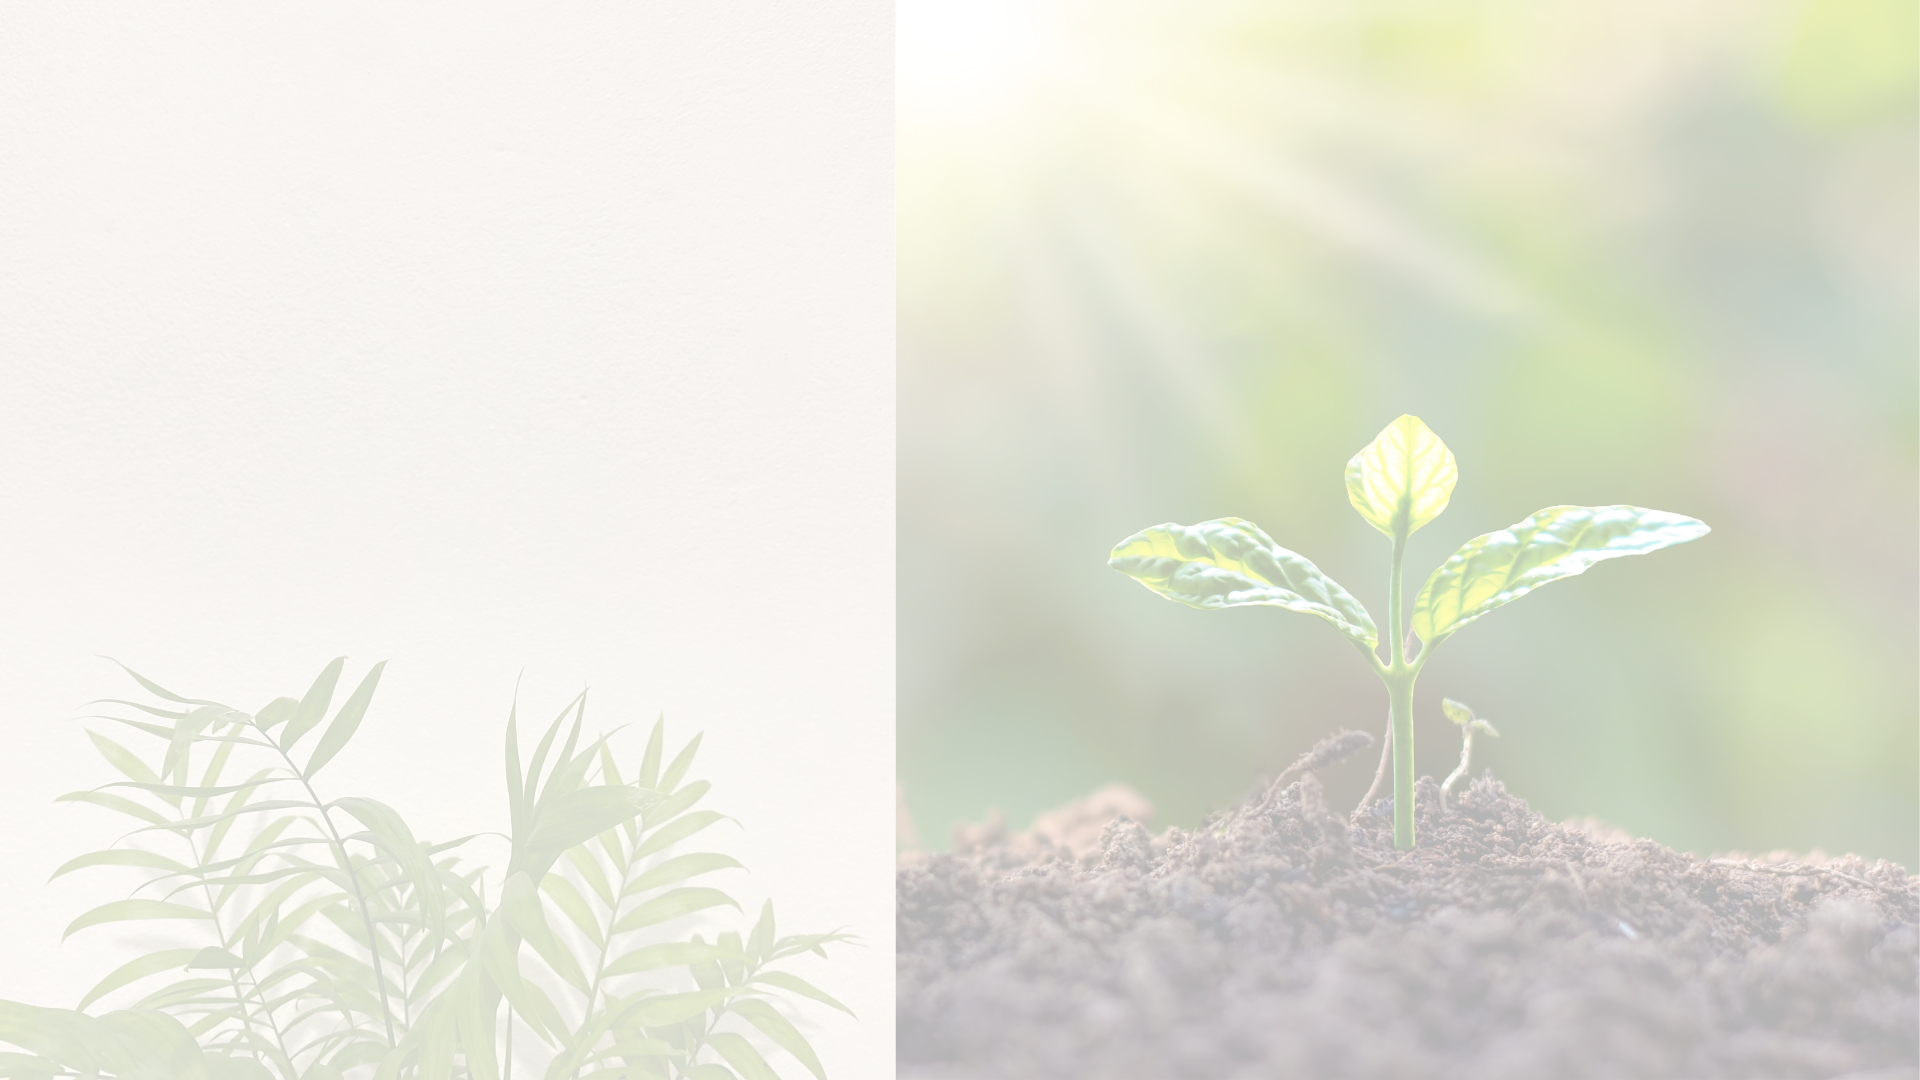
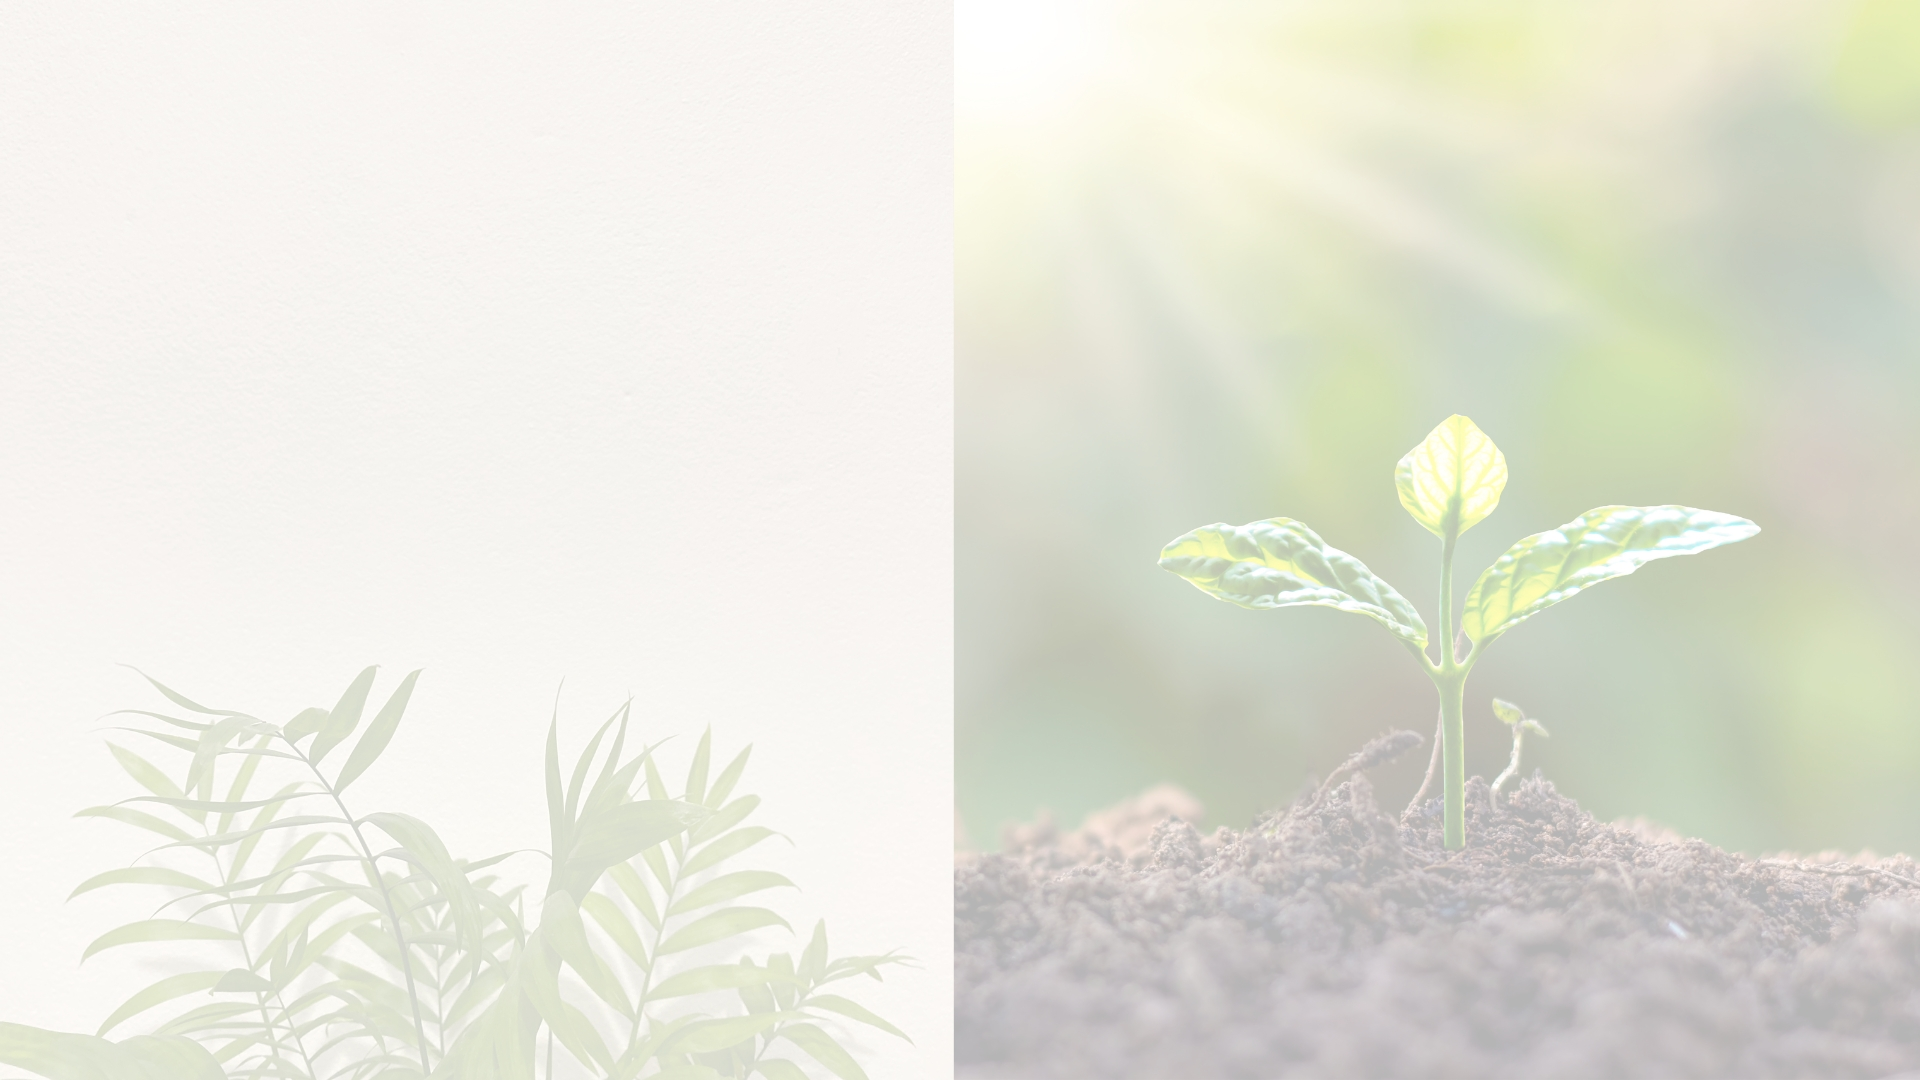
UI modifications

Changed region(s): [[0.0, 0.2444, 1.0, 1.0], [0.8438, 0.8556, 0.875, 0.8861], [0.75, 0.825, 0.7812, 0.8556]]

diff --git a/frontend/src/login.css b/frontend/src/login.css
@@ -40,8 +40,7 @@ body {
   border-radius: 8px;
   width: 100%;
   max-width: 500px;
-  height: 75%;
-  max-height: 440px;
+    transition: max-height 0.5s ease; 
 }
 
 .logo {
@@ -87,6 +86,7 @@ body {
 .error-message {
   font-size: 18px;
   color: red;
+  margin: 0;
 }
 
 .signin-btn {
@@ -178,10 +178,7 @@ body {
 .or-container {
   display: flex;
   align-items: center;
-  width: 100%; 
-  /* margin-left: -2rem;  */
-  /* margin-right: -2rem;  */
-  margin-top: 1.5rem;
+  width: calc(100% - 32px); 
   justify-content: space-between;
 }
 
@@ -213,16 +210,9 @@ body {
   text-decoration: none;
 }
 
-.new-form{
-   display: flex;
-    flex-direction: column;
-    justify-content: space-between; 
-    height: 100%;
-}
-
 @media (max-width: 767px) {
   .or-container{
-    margin-top: 3.5rem;
+    max-width: 448px;
   }
 
   .container {
@@ -243,10 +233,6 @@ body {
 
   .right-panel{
     display: none;
-  }
-
-  .form-container {
-    max-width: 100%;
   }
 
   .input-group input {

diff --git a/frontend/src/LoginPage.js b/frontend/src/LoginPage.js
@@ -172,17 +172,16 @@ const LoginPage = () => {
 
                         <div>
                             <button type="submit" className="signin-btn">LOGIN</button>
-                            <div className="or-container">
+                            
+                        </div>
+                    </form>
+                </div>
+                <div className="or-container">
                                 <div className="line"></div>
                                 <span className="or-text">OR</span>
                                 <div className="line"></div>
                             </div>
                             <p className="signup-text">Don't have an account? <a href="/signup"> Sign up</a></p>
-                        </div>
-                    </form>
-
-                </div>
-
             </div>
             <div className="right-panel">
             </div>

diff --git a/frontend/src/UserDashboard/ForgotPassword.css b/frontend/src/UserDashboard/ForgotPassword.css
@@ -4,7 +4,8 @@
    justify-content: flex-start; 
   height: 100vh;
   /* background: linear-gradient(to right, #d4fc79, #96e6a1); */
-  background: url('../images/newuser-image.jpg');
+  background: url('../images/fp-background.jpg') no-repeat center center;
+  background-size: cover;
   padding: 20px;
   box-sizing: border-box;
 }
@@ -16,7 +17,7 @@
   height: 50%;
   /* width: 30%;  */
   width: 50vw;
-  background-image: url('../images/fp.png'); 
+  /* background-image: url('../images/fp-new.png');  */
   background-size: cover;
   background-position: center left;
 }
@@ -81,10 +82,10 @@
     color: #333333;
   }
   
-  .error-message {
+  .error-messages {
     color: red;
-    margin-bottom: 20px;
-    font-size: 14px;
+    font-size: 18px;
+    margin-bottom: 10px;
   }
   
   .email-input, .otp-input {

diff --git a/frontend/src/UserDashboard/ForgotPassword.js b/frontend/src/UserDashboard/ForgotPassword.js
@@ -66,7 +66,7 @@ const ForgotPassword = () => {
         <div className="forgot-password-box">
           <h2 className='pass-forgot'>Forgot Your Password?</h2>
           <p className='new-text'>Enter your email to receive an OTP for password recovery. We’re here to help you get back in.</p>
-          {error && <p className="error-message">{error}</p>}
+          {error && <p className="error-messages">{error}</p>}
           <input
             type="email"
             placeholder="Enter your email"

diff --git a/frontend/src/SignupPage.js b/frontend/src/SignupPage.js
@@ -147,7 +147,7 @@ function RegisterForm() {
           <div className="logo">
             <img src={logo} alt="Company Logo" style={{ height: '100px' }} />
           </div>
-          <div className="help-linkq" onClick={handleNeedHelp}>Need Help?</div>
+          <div className="help-link" onClick={handleNeedHelp}>Need Help?</div>
           <div className="form-containerq">
             <form className="formq" onSubmit={handleSubmit}>
               <h2 className="titleq">Get Started Now</h2>

diff --git a/frontend/src/signup.css b/frontend/src/signup.css
@@ -137,14 +137,6 @@
   height: 100%; 
 }
 
-.help-linkq {
-  position: absolute;
-  top: 20px;
-  right: 60px;
-  cursor: pointer;
-  color: #27ae60;
-}
-
 @media (max-width: 768px) {
   .containerq {
     flex-direction: column;
